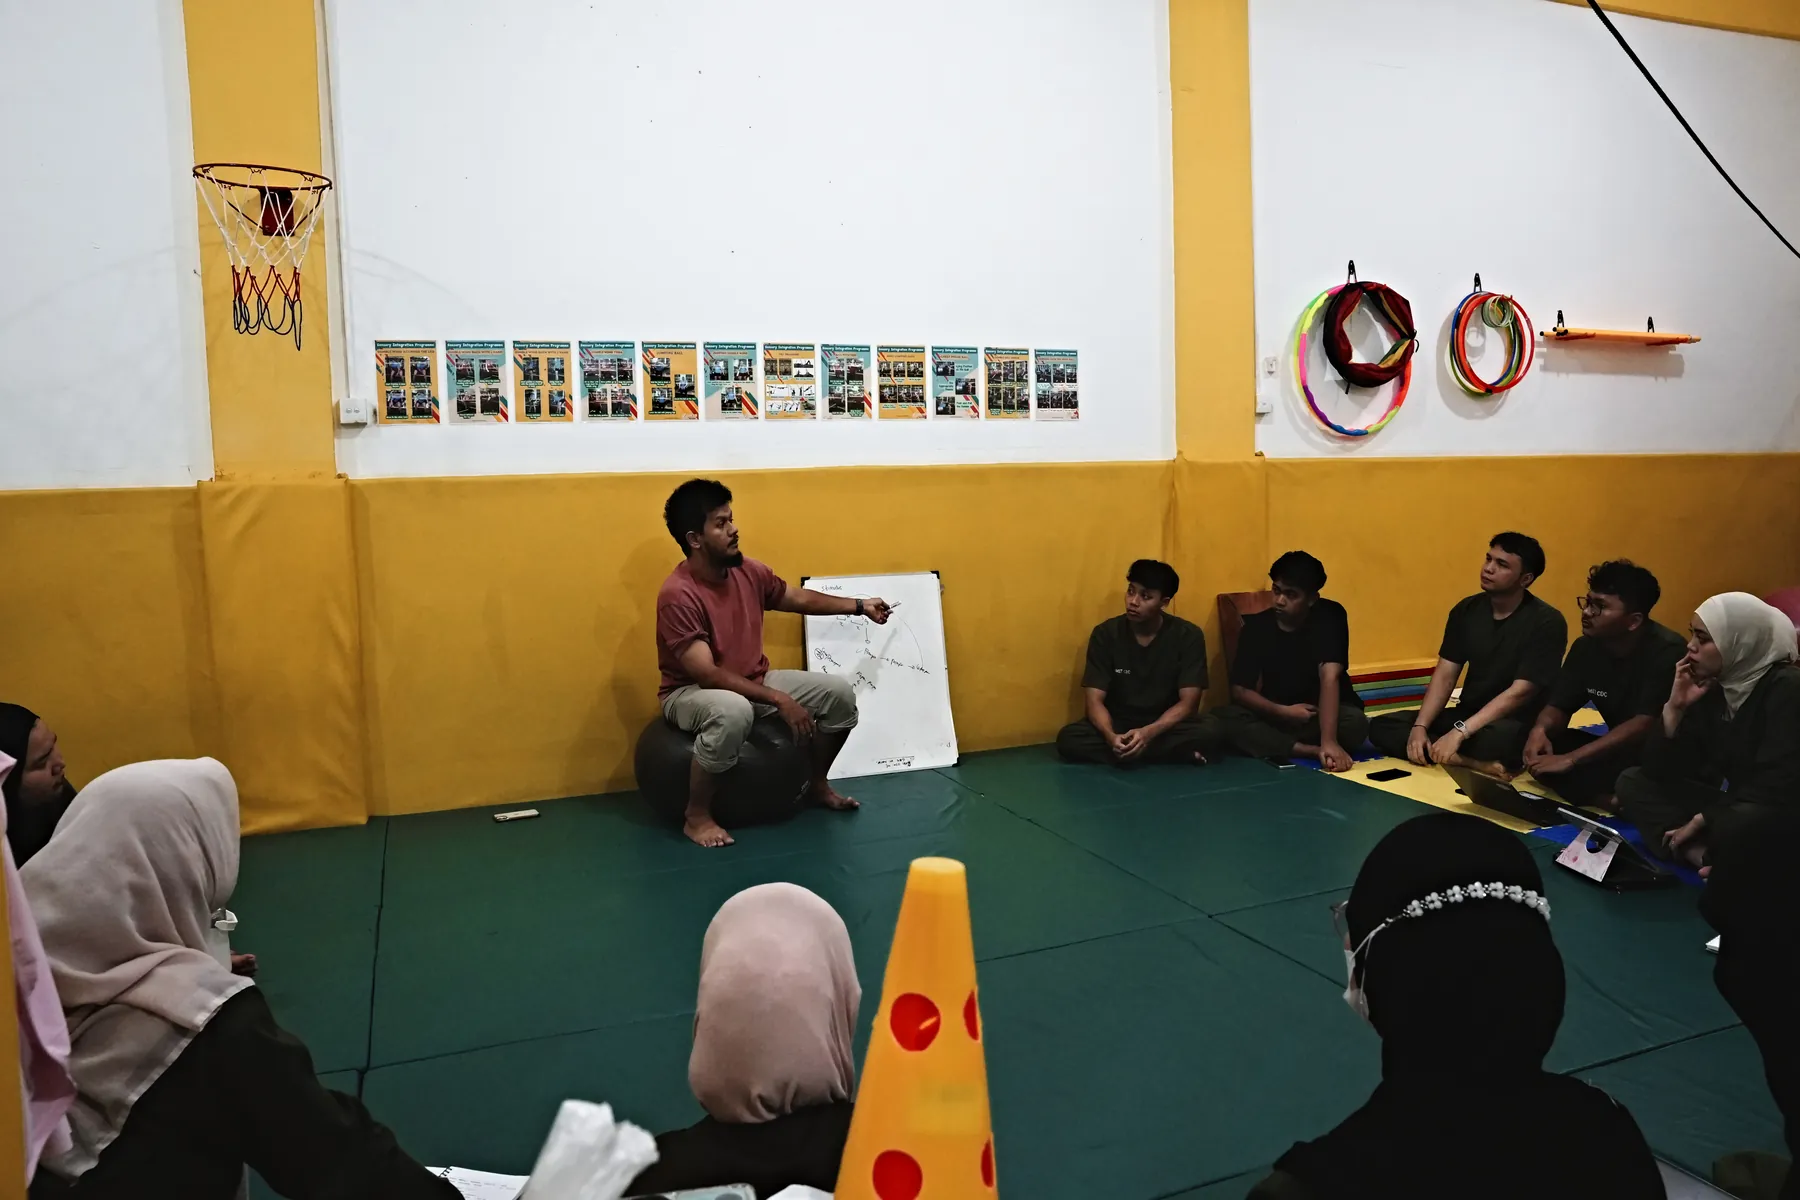
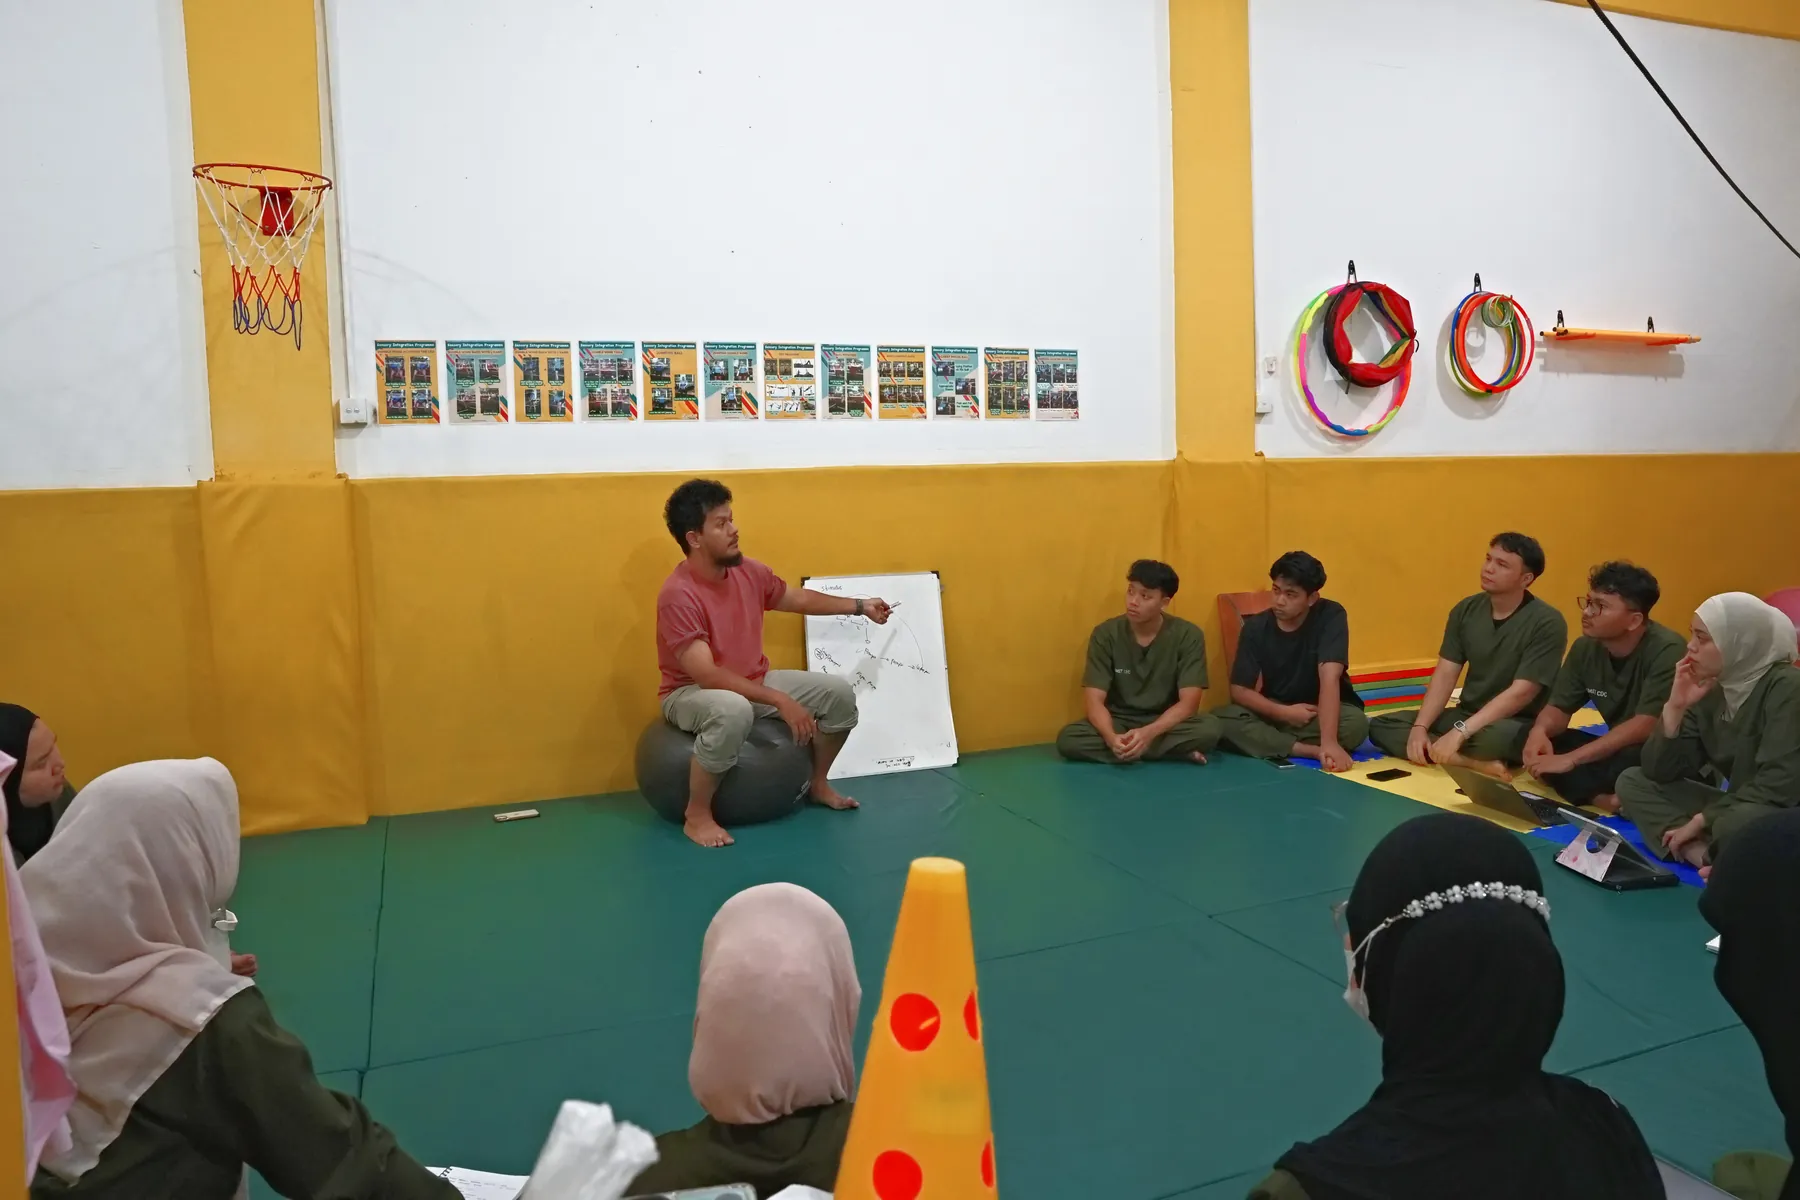
feat: galeri di atas Perjalanan 0–5 Tahun, foto pelatihan dicerahkan
- Bagian Galeri dipindah tepat setelah Hero (sebelum Perjalanan 0–5 Tahun);
  menu "Galeri" ikut dipindah sebelum "Tumbuh Kembang" sesuai urutan halaman
- Foto pertama: caption & alt diganti menjadi Terapi Perilaku (sesuai sesi aslinya)
- Foto sesi pelatihan tim: bayangan diangkat (peserta & matras tidak lagi gelap,
  dinding putih tetap)

diff --git a/frontend/src/data/gallery.js b/frontend/src/data/gallery.js
@@ -8,8 +8,8 @@ export const GALLERY = [
         id: "dsc00577",
         w: 7028,
         h: 4688,
-        caption: "Terapi Wicara dengan kartu gambar",
-        alt: "Terapis berhijab dan berkacamata memperlihatkan kartu bergambar topi sambil mencontohkan gerak mulut kepada seorang anak yang duduk membelakangi kamera.",
+        caption: "Terapi Perilaku dengan kartu gambar",
+        alt: "Dalam sesi terapi perilaku, terapis berhijab dan berkacamata memperlihatkan kartu bergambar topi kepada seorang anak yang duduk membelakangi kamera.",
     },
     {
         id: "dsc00092",

diff --git a/frontend/src/data/site.js b/frontend/src/data/site.js
@@ -10,10 +10,10 @@ export const waLink = (message = WA_DEFAULT_MESSAGE) =>
 
 export const NAV_LINKS = [
     { label: "Layanan", href: "#layanan" },
+    { label: "Galeri", href: "#galeri" },
     { label: "Tumbuh Kembang", href: "#tumbuh-kembang" },
     { label: "Tentang", href: "#mengapa-yamet" },
     { label: "Metode", href: "#alur" },
-    { label: "Galeri", href: "#galeri" },
     { label: "Testimoni", href: "#testimoni" },
     { label: "Kontak", href: "#kontak" },
 ];

diff --git a/frontend/src/App.js b/frontend/src/App.js
@@ -24,12 +24,12 @@ function Landing() {
             <Navbar />
             <main>
                 <Hero />
+                <Gallery />
                 <GrowthJourney />
                 <Services />
                 <WhyYamet />
                 <Conditions />
                 <Workflow />
-                <Gallery />
                 <Testimonials />
                 <FAQ />
                 <ClosingCta />
